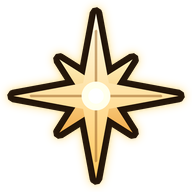
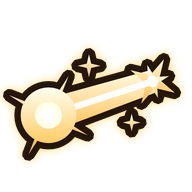
통합 손질: 터치 빛 영혼 그림을 별 → 빛줄기(레이저)로, 보스 러시 중 빛 가루 칸·터치 '지도' 버튼 숨김, 영혼 전환 알림이 러시 시계·보스 등장 이름을 피함 + 시험(러시 겹침 세 화면 비율·러시 방 넘김 때 이펙트 거둠·엔딩 중 이펙트 없음), make_touch_icons --only

diff --git a/GAME_DESIGN.md b/GAME_DESIGN.md
@@ -265,7 +265,7 @@
   - 쓰러뜨리면 기록 → 2.6초 숨 고르기 → 보스가 빛으로 흩어짐 → 다음 보스 방으로 저절로. 회상·보상·깃발·빛 가루 없음 (정화의 손길을 얹어도 아무것도 바뀌지 않는다).
   - **시간:** 보스마다 싸움 시작부터 쓰러질 때까지(방 이동·일시정지는 세지 않음), 전체 = 다섯 싸움의 합. 화면 위 가운데에 작은 시계(몇 번째 / 전체 시간 / 이번 싸움).
   - 소녀가 쓰러지면 **결과 화면**(몇 번째 수호자에서, 그 싸움 시간, 그때까지 전체) → 타이틀. 다 이기면 전체 시간·보스별 기록(+보스별 최고)·최고 기록·새 기록. 최고 기록은 `user://boss_rush.json`에 따로(완주 수·도전 수도).
-  - 일시정지 메뉴: 저장·불러오기·타이틀로 대신 **포기하기**(결과 화면 → 타이틀). 지도는 열리지 않는다.
+  - 일시정지 메뉴: 저장·불러오기·타이틀로 대신 **포기하기**(결과 화면 → 타이틀). 지도는 열리지 않는다(터치 '지도' 버튼도 치운다). 러시에는 빛 가루가 없어 HUD 의 빛 가루 칸도 숨는다. 영혼 전환 알림은 러시 시계·보스 등장 이름을 피해 그 아래에 뜬다 (2026-10-20 통합).
   - **저장 파일은 한 바이트도 바뀌지 않는다:** 시작할 때 진행·정화 상태를 떼어 두고 러시용 빈 진행으로 싸운 뒤, 결과 화면에서 그대로 되돌린다. 러시 중에는 세이브가 쓰기를 거절한다.
 - **음악 감상:** 정식 곡 18곡을 이야기 순서로 두 줄에, 한국어 이름과 쓰이는 곳(`data/dialogue/music_titles.json`, 이름은 초안 — 고치면 그대로 반영). 고르면 처음부터 **반복**(허밍도), 흐르는 곡을 다시 고르면 멈춤, 흐른 시간 / 길이와 진행 막대. 컨트롤러·키보드(위·아래·좌·우·결정)와 터치(곡을 누르기). 돌아가면 타이틀 곡.
 - **파일:** 규칙·기록 `scripts/world/boss_rush.gd`, 러시 모드 `scripts/bosses/boss_room.gd`, 시계 `scripts/ui/boss_rush_hud.gd`, 결과 화면 `scenes/ui/boss_rush_result.tscn`, 음악 감상 `scripts/ui/music_room.gd`, 시험 `tools/probe_bossrush.tscn`·`tools/probe_music_room.tscn`.
@@ -312,7 +312,7 @@
 - **달리기가 기본, 걷기 버튼 (2026-10-18 기획자 결정):** 이동은 늘 달리기다. 걷기 버튼(L3 / 터치 왼쪽 아래)을 누르면 걷기로 고정되고, 다시 누르면 달린다. 걷는 중에도 회피를 길게 누르면 그동안은 달린다.
 - **오른쪽은 싸움 버튼 다섯 개만 (2026-10-18 기획자 결정, 2차):** 오른쪽 아래 모서리를 축으로 안쪽 호에 점프(가장 가까움)와 약공격(가장 큼), 바깥 호에 회피(점프 위)·가드(약공격 왼쪽, 저스트 가드를 같은 엄지로)·**영혼 기술**(약공격 위, 옛 강공격 자리 — 3차: 강공격 삭제). 상황 버튼(손길/이동/들어가기)은 가드 왼쪽. **왼쪽**에는 가장자리 세로 줄로 회복·전환(급하지 않은 버튼) 둘만 두고, 왼쪽의 회피·걷기 버튼은 없앴다(걷기 고정은 L3/키보드만). 스틱은 왼쪽 화면의 빈 자리 어디서든 시작한다. 낙하 공격·하단 점프의 ↓는 스틱을 **절반 넘게** 내려야 인정한다(살짝 처진 엄지로는 안 나감).
 - **밝은 배경에서도 보이게:** 버튼은 어두운 반투명 바탕 + 짙은 바깥선 + 상아빛 테두리.
-- **버튼은 글자 대신 그림 (2026-10-19 기획자 요청):** 공격=칼, 가드=방패, 점프=날개와 위 화살, 회피=소용돌이, 낙하=아래로 꽂는 칼, 영혼 기술=지금 고른 영혼 그림(씨앗=새싹 / 바람=초승달 검기 / 빛=별, 쿨다운은 그림을 덮은 어두운 부채꼴이 시계 방향으로 걷히고 가운데 남은 초), 전환=도는 화살 고리, 회복=이슬, 상황 버튼=손(손길)·문(들어가기)·굽은 길 화살(쉬는 중 이동)·오르는 고리(쉬는 중 성장 — 피운 달빛풀이 하나뿐일 때), 지도=접힌 지도, 메뉴=세 줄. 상아·금빛 그림에 짙은 테두리와 은은한 금빛 번짐(`art/ui/touch/`, 만드는 도구 `tools/make_touch_icons.tscn`). 누르면 바탕이 금빛으로 밝아지고 그림이 살짝 눌린다.
+- **버튼은 글자 대신 그림 (2026-10-19 기획자 요청):** 공격=칼, 가드=방패, 점프=날개와 위 화살, 회피=소용돌이, 낙하=아래로 꽂는 칼, 영혼 기술=지금 고른 영혼 그림(씨앗=새싹 / 바람=초승달 검기 / 빛=빛줄기(레이저 — 손의 빛 구슬에서 뻗는 줄기, 2026-10-20 통합 때 별에서 바꿈), 쿨다운은 그림을 덮은 어두운 부채꼴이 시계 방향으로 걷히고 가운데 남은 초), 전환=도는 화살 고리, 회복=이슬, 상황 버튼=손(손길)·문(들어가기)·굽은 길 화살(쉬는 중 이동)·오르는 고리(쉬는 중 성장 — 피운 달빛풀이 하나뿐일 때), 지도=접힌 지도, 메뉴=세 줄. 상아·금빛 그림에 짙은 테두리와 은은한 금빛 번짐(`art/ui/touch/`, 만드는 도구 `tools/make_touch_icons.tscn`). 누르면 바탕이 금빛으로 밝아지고 그림이 살짝 눌린다.
 - **Esc = 메뉴 버튼:** 터치는 왼쪽 위 '메뉴'가 Esc 구실을 한다 (일시정지·설정·저장·불러오기·타이틀로).
 - **저장과 불러오기 (2026-10-18 기획자 요청):** 달빛풀에서 쉬면 저절로 저장되고, 메뉴의 **지금 저장하기**는 어디서든 진행을 저장한다(이어지는 자리는 마지막으로 쉰 달빛풀). 메뉴의 **불러오기**는 그 저장으로 되돌아간다. 타이틀의 이어하기와 같다. 모두 터치로 줄을 두 번 누르면 된다(한 번은 고르기, 한 번은 실행).
 - **상황 버튼:** 상호작용이나 **정화의 손길**이 가능할 때만 화면에 크게 나타난다.
